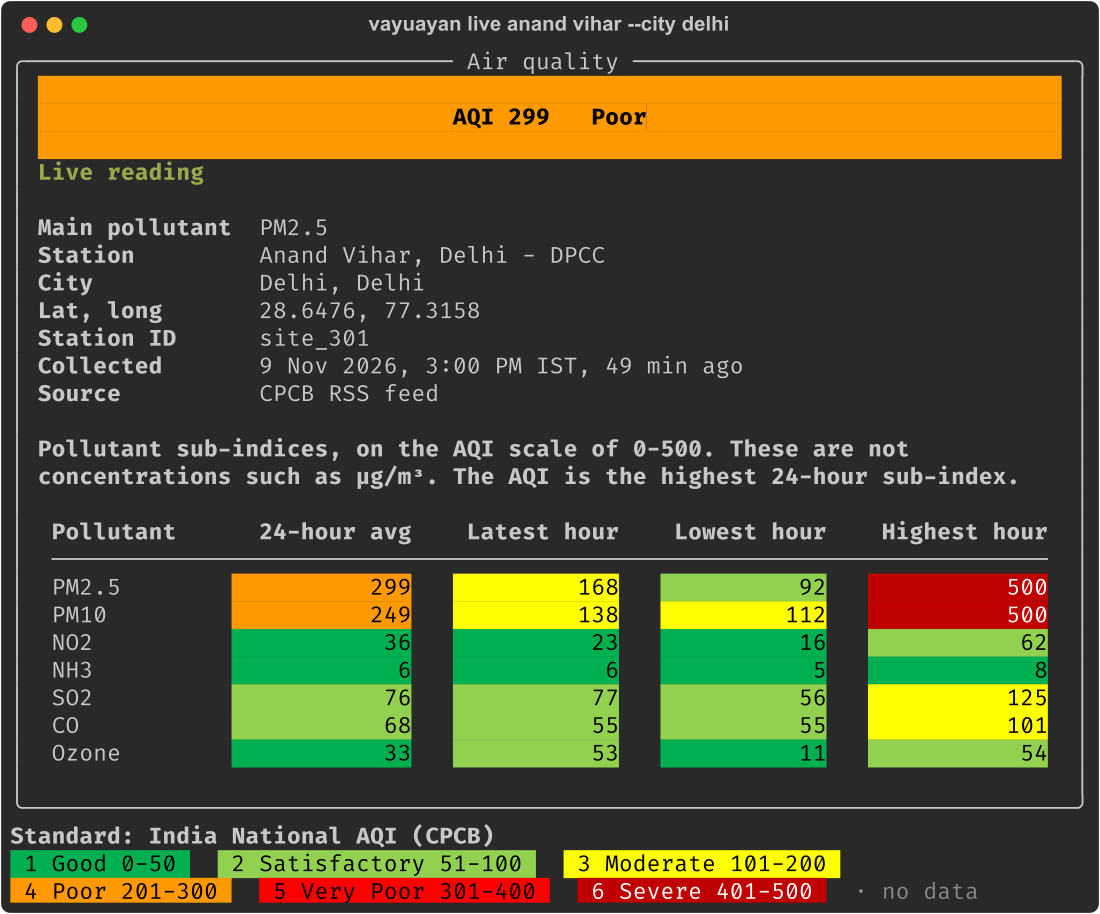
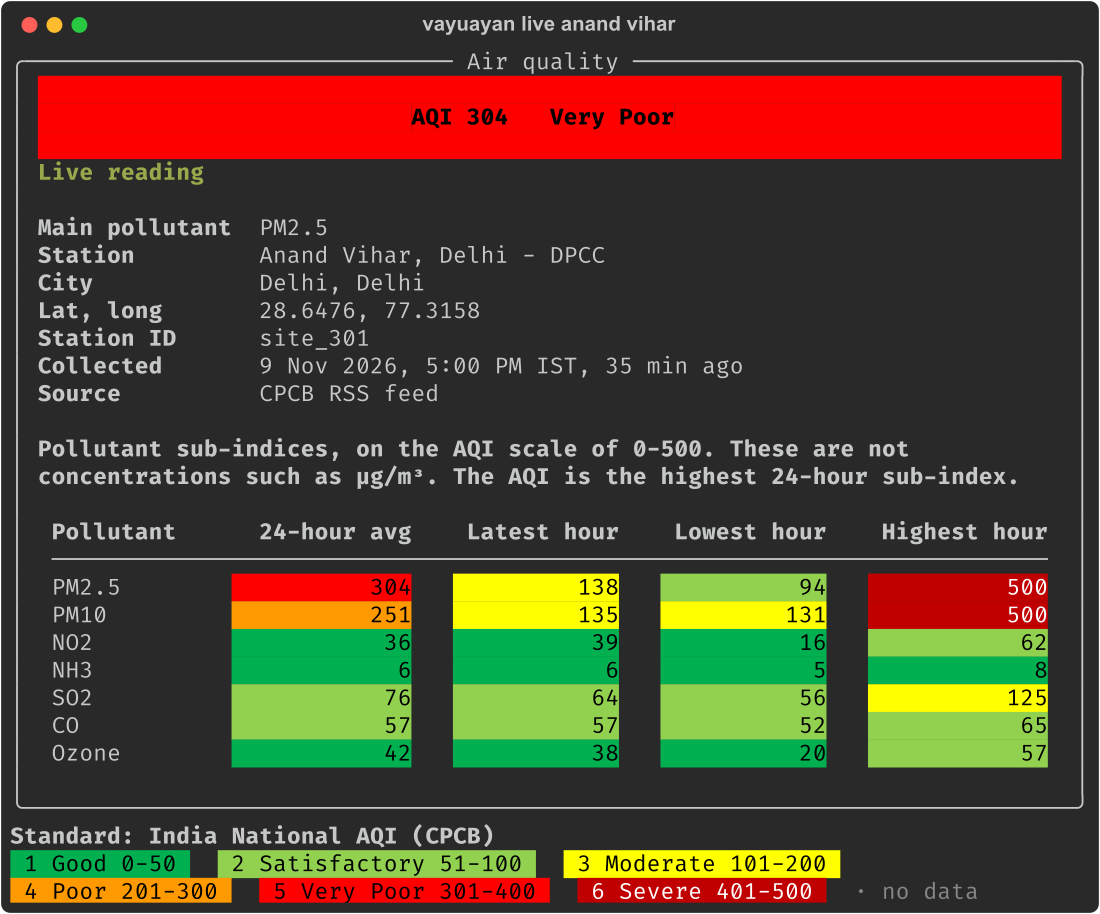
Update live example

diff --git a/python/docs/site_root/index.html b/python/docs/site_root/index.html
@@ -65,9 +65,9 @@
         <pre class="term-cmd">$ pip install vayuayan
 $ vayuayan live anand vihar</pre>
 <pre class="term-body">╭─────────────────────────────── Air quality ────────────────────────────────╮
-│ <span style="color: #000000; text-decoration-color: #000000; background-color: #ff9900; font-weight: bold">                                                                          </span> │
-│ <span style="color: #000000; text-decoration-color: #000000; background-color: #ff9900; font-weight: bold">                              AQI 299   Poor                              </span> │
-│ <span style="color: #000000; text-decoration-color: #000000; background-color: #ff9900; font-weight: bold">                                                                          </span> │
+│ <span style="color: #000000; text-decoration-color: #000000; background-color: #ff0000; font-weight: bold">                                                                          </span> │
+│ <span style="color: #000000; text-decoration-color: #000000; background-color: #ff0000; font-weight: bold">                           AQI 304   Very Poor                            </span> │
+│ <span style="color: #000000; text-decoration-color: #000000; background-color: #ff0000; font-weight: bold">                                                                          </span> │
 │ <span style="color: #008000; text-decoration-color: #008000; font-weight: bold">Live reading</span>                                                               │
 │                                                                            │
 │ <span style="font-weight: bold">Main pollutant  </span>PM2.5                                                      │
@@ -75,7 +75,7 @@ $ vayuayan live anand vihar</pre>
 │ <span style="font-weight: bold">City            </span>Delhi, Delhi                                               │
 │ <span style="font-weight: bold">Lat, long       </span>28.6476, 77.3158                                           │
 │ <span style="font-weight: bold">Station ID      </span>site_301                                                   │
-│ <span style="font-weight: bold">Collected       </span>9 Nov 2026, 3:00 PM IST, 49 min ago                        │
+│ <span style="font-weight: bold">Collected       </span>9 Nov 2026, 5:00 PM IST, 35 min ago                        │
 │ <span style="font-weight: bold">Source          </span>CPCB RSS feed                                              │
 │                                                                            │
 │ <span style="font-weight: bold">Pollutant sub-indices, on the AQI scale of 0-500. These are not </span>           │
@@ -83,13 +83,13 @@ $ vayuayan live anand vihar</pre>
 │                                                                            │
 │  <span style="font-weight: bold">Pollutant  </span> <span style="font-weight: bold">   24-hour avg </span> <span style="font-weight: bold">  Latest hour </span> <span style="font-weight: bold">  Lowest hour </span> <span style="font-weight: bold">  Highest hour</span>  │
 │  ────────────────────────────────────────────────────────────────────────  │
-│  PM2.5        <span style="color: #000000; text-decoration-color: #000000; background-color: #ff9900">          299</span>   <span style="color: #000000; text-decoration-color: #000000; background-color: #ffff00">         168</span>   <span style="color: #000000; text-decoration-color: #000000; background-color: #92d050">          92</span>   <span style="color: #ffffff; text-decoration-color: #ffffff; background-color: #c00000">          500</span>  │
-│  PM10         <span style="color: #000000; text-decoration-color: #000000; background-color: #ff9900">          249</span>   <span style="color: #000000; text-decoration-color: #000000; background-color: #ffff00">         138</span>   <span style="color: #000000; text-decoration-color: #000000; background-color: #ffff00">         112</span>   <span style="color: #ffffff; text-decoration-color: #ffffff; background-color: #c00000">          500</span>  │
-│  NO2          <span style="color: #000000; text-decoration-color: #000000; background-color: #00b050">           36</span>   <span style="color: #000000; text-decoration-color: #000000; background-color: #00b050">          23</span>   <span style="color: #000000; text-decoration-color: #000000; background-color: #00b050">          16</span>   <span style="color: #000000; text-decoration-color: #000000; background-color: #92d050">           62</span>  │
+│  PM2.5        <span style="color: #000000; text-decoration-color: #000000; background-color: #ff0000">          304</span>   <span style="color: #000000; text-decoration-color: #000000; background-color: #ffff00">         138</span>   <span style="color: #000000; text-decoration-color: #000000; background-color: #92d050">          94</span>   <span style="color: #ffffff; text-decoration-color: #ffffff; background-color: #c00000">          500</span>  │
+│  PM10         <span style="color: #000000; text-decoration-color: #000000; background-color: #ff9900">          251</span>   <span style="color: #000000; text-decoration-color: #000000; background-color: #ffff00">         135</span>   <span style="color: #000000; text-decoration-color: #000000; background-color: #ffff00">         131</span>   <span style="color: #ffffff; text-decoration-color: #ffffff; background-color: #c00000">          500</span>  │
+│  NO2          <span style="color: #000000; text-decoration-color: #000000; background-color: #00b050">           36</span>   <span style="color: #000000; text-decoration-color: #000000; background-color: #00b050">          39</span>   <span style="color: #000000; text-decoration-color: #000000; background-color: #00b050">          16</span>   <span style="color: #000000; text-decoration-color: #000000; background-color: #92d050">           62</span>  │
 │  NH3          <span style="color: #000000; text-decoration-color: #000000; background-color: #00b050">            6</span>   <span style="color: #000000; text-decoration-color: #000000; background-color: #00b050">           6</span>   <span style="color: #000000; text-decoration-color: #000000; background-color: #00b050">           5</span>   <span style="color: #000000; text-decoration-color: #000000; background-color: #00b050">            8</span>  │
-│  SO2          <span style="color: #000000; text-decoration-color: #000000; background-color: #92d050">           76</span>   <span style="color: #000000; text-decoration-color: #000000; background-color: #92d050">          77</span>   <span style="color: #000000; text-decoration-color: #000000; background-color: #92d050">          56</span>   <span style="color: #000000; text-decoration-color: #000000; background-color: #ffff00">          125</span>  │
-│  CO           <span style="color: #000000; text-decoration-color: #000000; background-color: #92d050">           68</span>   <span style="color: #000000; text-decoration-color: #000000; background-color: #92d050">          55</span>   <span style="color: #000000; text-decoration-color: #000000; background-color: #92d050">          55</span>   <span style="color: #000000; text-decoration-color: #000000; background-color: #ffff00">          101</span>  │
-│  Ozone        <span style="color: #000000; text-decoration-color: #000000; background-color: #00b050">           33</span>   <span style="color: #000000; text-decoration-color: #000000; background-color: #92d050">          53</span>   <span style="color: #000000; text-decoration-color: #000000; background-color: #00b050">          11</span>   <span style="color: #000000; text-decoration-color: #000000; background-color: #92d050">           54</span>  │
+│  SO2          <span style="color: #000000; text-decoration-color: #000000; background-color: #92d050">           76</span>   <span style="color: #000000; text-decoration-color: #000000; background-color: #92d050">          64</span>   <span style="color: #000000; text-decoration-color: #000000; background-color: #92d050">          56</span>   <span style="color: #000000; text-decoration-color: #000000; background-color: #ffff00">          125</span>  │
+│  CO           <span style="color: #000000; text-decoration-color: #000000; background-color: #92d050">           57</span>   <span style="color: #000000; text-decoration-color: #000000; background-color: #92d050">          57</span>   <span style="color: #000000; text-decoration-color: #000000; background-color: #92d050">          52</span>   <span style="color: #000000; text-decoration-color: #000000; background-color: #92d050">           65</span>  │
+│  Ozone        <span style="color: #000000; text-decoration-color: #000000; background-color: #00b050">           42</span>   <span style="color: #000000; text-decoration-color: #000000; background-color: #00b050">          38</span>   <span style="color: #000000; text-decoration-color: #000000; background-color: #00b050">          20</span>   <span style="color: #000000; text-decoration-color: #000000; background-color: #92d050">           57</span>  │
 │                                                                            │
 ╰────────────────────────────────────────────────────────────────────────────╯
 <span style="font-weight: bold">Standard: India National AQI (CPCB)</span>

diff --git a/python/tests/test_cli.py b/python/tests/test_cli.py
@@ -112,7 +112,7 @@ def test_live_with_only_a_city_filter(run):
 
 def test_filters_narrow_the_catalogue(run):
     # site_7 is in the catalogue but not the feed, so it reads as offline
-    assert run("live", "anand", "vihar", "--state", "UP") == 5
+    assert run("live", "vihar", "--state", "UP") == 5
     assert "site_7" in run.text
 
 
@@ -293,8 +293,8 @@ def test_old_commands_are_gone(run, command):
         (["history", "atlantis", "2025"], 3),
         (["find", "atlantis"], 3),
         (["stations", "--city", "Atlantis"], 3),
-        (["live", "anand", "vihar"], 4),
-        (["history", "anand", "vihar", "2025"], 4),
+        (["live", "vihar"], 4),
+        (["history", "vihar", "2025"], 4),
         (["live", "colaba"], 5),
         (["nonsense"], 2),
         (["live", "--nope"], 2),
@@ -380,7 +380,7 @@ def test_json_flag_works_before_the_command(run):
 
 
 def test_json_ambiguous_schema(run):
-    assert run("live", "anand", "vihar", "--json") == 4
+    assert run("live", "vihar", "--json") == 4
 
     document = run.document()
     assert document["status"] == "ambiguous"
@@ -417,14 +417,14 @@ def test_json_never_prompts_in_a_terminal(run, monkeypatch):
     run.terminal()
     answers(monkeypatch)
 
-    assert run("live", "anand", "vihar", "--json") == 4
+    assert run("live", "vihar", "--json") == 4
 
 
 def test_no_input_never_prompts_in_a_terminal(run, monkeypatch):
     run.terminal()
     answers(monkeypatch)
 
-    assert run("live", "anand", "vihar", "--no-input") == 4
+    assert run("live", "vihar", "--no-input") == 4
 
 
 def test_ambiguous_in_a_terminal_asks_and_continues(run, monkeypatch):
@@ -432,7 +432,7 @@ def test_ambiguous_in_a_terminal_asks_and_continues(run, monkeypatch):
     answers(monkeypatch, 1)
 
     assert run("find", "anand", "vihar") == 0
-    assert run("live", "anand", "vihar") in (0, 5)
+    assert run("live", "vihar") in (0, 5)
     assert "Anand Vihar, Delhi" in run.problem
 
 
@@ -441,7 +441,7 @@ def test_ambiguous_choice_applies_to_the_command(run, monkeypatch):
     run.live = FakeLive()
     answers(monkeypatch, 2)
 
-    run("history", "anand", "vihar", "2025")
+    run("history", "vihar", "2025")
 
     assert run.historical.calls[-1][1][0] == "site_7"
 
@@ -464,7 +464,7 @@ def test_ctrl_c_at_a_prompt_stops_quietly(run, monkeypatch):
     run.terminal()
     answers(monkeypatch, KeyboardInterrupt())
 
-    assert run("live", "anand", "vihar") == 130
+    assert run("live", "vihar") == 130
 
 
 def test_ip_failure_asks_for_a_place_in_a_terminal(run, monkeypatch):
@@ -721,3 +721,12 @@ def test_an_end_in_the_future_stops_at_the_last_whole_hour():
     now = datetime(2026, 11, 9, 15, 45)
 
     assert cli_parser.end_time("2026-11-09", now) == datetime(2026, 11, 9, 15)
+
+
+def test_a_bare_station_name_needs_no_city(run):
+    assert run("live", "anand", "vihar", "--json", "--no-input") in (0, 5)
+
+    document = run.document()
+    assert document["reading"]["station"]["id"] == "site_8"
+    assert [m["id"] for m in document["also_matches"]] == ["site_7"]
+    assert "--city Hapur" in run.problem

diff --git a/python/vayuayan/cli.py b/python/vayuayan/cli.py
@@ -12,7 +12,7 @@ import re
 import sys
 import warnings
 from contextlib import contextmanager
-from dataclasses import dataclass
+from dataclasses import dataclass, replace
 from datetime import date
 from typing import Callable, Dict, Iterator, List, Optional, Sequence
 
@@ -89,13 +89,28 @@ def _lookup(
         place = commands.lookup_place(
             CPCBHistorical(), " ".join(words), args.city, args.state
         )
+    if place.others:
+        assert place.station is not None
+        ctx.err.print(
+            f"Using {place.station.name}. Also: "
+            + "; ".join(f"{s.name} (--city {s.city})" for s in place.others),
+            markup=False,
+        )
     return _settle(ctx, place)
+
+
+def _with_others(result: CommandResult, place: PlaceResult) -> CommandResult:
+    """The result, naming any same-named stations the place was chosen over."""
+    if not place.others:
+        return result
+    others = [s.to_dict() for s in place.others]
+    return replace(result, data={**result.data, "also_matches": others})
 
 
 def _live_for(ctx: _Context, place: PlaceResult, save: str) -> CommandResult:
     """The live reading of a resolved place."""
     with _busy(ctx, "Fetching the latest reading..."):
-        return commands.live_place(CPCBLive(), place, save=save)
+        return _with_others(commands.live_place(CPCBLive(), place, save=save), place)
 
 
 def _live(ctx: _Context, args: argparse.Namespace) -> CommandResult:
@@ -144,7 +159,8 @@ def _history(ctx: _Context, args: argparse.Namespace) -> CommandResult:
         report = _report_request(args, year)
         place = _lookup(ctx, args, words)
         with _busy(ctx, "Downloading the report...") as progress:
-            return commands.history_report(client, place, report, progress)
+            result = commands.history_report(client, place, report, progress)
+            return _with_others(result, place)
 
     request = HistoryRequest(
         year=year if year is not None else date.today().year - 1,
@@ -156,7 +172,7 @@ def _history(ctx: _Context, args: argparse.Namespace) -> CommandResult:
     )
     place = _settle(ctx, commands.place_for_request(_lookup(ctx, args, words), request))
     with _busy(ctx, "Downloading the daily AQI...") as progress:
-        return commands.history(client, place, request, progress)
+        return _with_others(commands.history(client, place, request, progress), place)
 
 
 def _find(ctx: _Context, args: argparse.Namespace) -> CommandResult:

diff --git a/python/vayuayan/cli_places.py b/python/vayuayan/cli_places.py
@@ -58,6 +58,7 @@ class PlaceResult:
         city: Set when status is city.
         matches: The candidates when status is ambiguous.
         reason: Why the candidates need a choice, if not because of the name.
+        others: Same-named stations passed over.
     """
 
     status: PlaceStatus
@@ -66,6 +67,7 @@ class PlaceResult:
     city: Optional[CityPlace] = None
     matches: Tuple[Match, ...] = ()
     reason: str = ""
+    others: Tuple[Station, ...] = ()
 
     def stations(self) -> Tuple[Station, ...]:
         """Every station this result covers."""
@@ -119,10 +121,24 @@ def _of_cities(query: str, cities: Sequence[CityPlace]) -> PlaceResult:
     return PlaceResult("city", query, city=cities[0])
 
 
+def _of_shared_site(
+    query: str, stations: Sequence[Station], cities: Sequence[CityPlace]
+) -> Optional[PlaceResult]:
+    """The station in the largest city, if several share a site name without a tie."""
+    if len(stations) < 2:
+        return None
+    size = {s: len(c.stations) for c in cities for s in c.stations}
+    best, *others = sorted(stations, key=size.__getitem__, reverse=True)
+    if size[best] == size[others[0]]:
+        return None
+    return PlaceResult("station", query, station=best, others=tuple(others))
+
+
 def resolve_place(query: str, catalogue: Sequence[Station]) -> PlaceResult:
     """Decide what a place name means.
 
-    An exact station ID or name wins, then an exact city name. After that the
+    An exact station ID or name wins, then an exact city name, then a site
+    name shared by several cities, taken from the largest. After that the
     words of the query must start words of a station's name and city, and
     last of all the query may appear anywhere in them.
 
@@ -145,6 +161,11 @@ def resolve_place(query: str, catalogue: Sequence[Station]) -> PlaceResult:
     exact_cities = [c for c in cities if _normalise(c.city) == wanted]
     if exact_cities:
         return _of_cities(query, exact_cities)
+
+    site = [s for s in catalogue if _normalise(s.name.split(",")[0]) == wanted]
+    shared = _of_shared_site(query, site, cities)
+    if shared is not None:
+        return shared
 
     matchers: Tuple[Callable[[str, str], bool], ...] = (_word_match, _part_match)
     for matches in matchers:

diff --git a/python/tests/test_cli_places.py b/python/tests/test_cli_places.py
@@ -69,7 +69,7 @@ def test_city_with_one_station_is_that_station(stations):
 
 
 def test_several_stations_are_ambiguous(stations):
-    place = resolve_place("anand vihar", stations)
+    place = resolve_place("vihar", stations)
 
     assert place.status == "ambiguous"
     assert [m.id for m in place.matches] == ["site_8", "site_7"]
@@ -156,3 +156,36 @@ def test_catalogue_of_an_empty_table_is_empty():
 
 def test_catalogue_turns_missing_coordinates_into_none(stations):
     assert [s for s in stations if s.id == "site_6"][0].latitude is None
+
+
+def test_a_shared_site_name_prefers_the_largest_city(stations):
+    place = resolve_place("anand vihar", stations)
+
+    assert place.status == "station"
+    assert place.station.city == "Delhi"
+    assert [s.city for s in place.others] == ["Hapur"]
+
+
+def test_equal_cities_stay_ambiguous():
+    twins = [
+        Station("a", "Civil Lines, Agra - X", "Agra", "UP"),
+        Station("b", "Civil Lines, Pune - X", "Pune", "MH"),
+    ]
+
+    assert resolve_place("civil lines", twins).status == "ambiguous"
+
+
+def test_a_longer_site_name_does_not_undo_the_choice():
+    named = [
+        Station("a", "Civil Lines, Agra - X", "Agra", "UP"),
+        Station("b", "Civil Lines, Pune - X", "Pune", "MH"),
+        Station("c", "Shivaji Nagar, Pune - X", "Pune", "MH"),
+        Station("d", "Civil Lines Extension, Agra - X", "Agra", "UP"),
+        Station("e", "Kothrud, Pune - X", "Pune", "MH"),
+    ]
+
+    assert resolve_place("civil lines", named).station.id == "b"
+
+
+def test_a_partial_name_stays_ambiguous(stations):
+    assert resolve_place("vihar", stations).status == "ambiguous"

diff --git a/python/tests/test_commands.py b/python/tests/test_commands.py
@@ -231,7 +231,7 @@ def test_live_city_with_no_readings_is_no_data():
 
 def test_live_not_found_and_ambiguous():
     missing = commands.live_place(FakeLive(), _place("atlantis"), NOW)
-    several = commands.live_place(FakeLive(), _place("anand vihar"), NOW)
+    several = commands.live_place(FakeLive(), _place("vihar"), NOW)
 
     assert (missing.status, missing.exit_code) == ("not_found", 3)
     assert (several.status, several.exit_code) == ("ambiguous", 4)

diff --git a/python/vayuayan/commands.py b/python/vayuayan/commands.py
@@ -64,7 +64,7 @@ def find_stations(place: PlaceResult, save: str = "") -> CommandResult:
         unresolved = unresolved_place("find", place)
         assert unresolved is not None
         return unresolved
-    rows = [s.to_dict() for s in place.stations()]
+    rows = [s.to_dict() for s in (*place.stations(), *place.others)]
     if save:
         write_rows(rows, save)
     data = {

diff --git a/python/tests/test_cli_render.py b/python/tests/test_cli_render.py
@@ -459,7 +459,7 @@ def test_problem_without_a_message_shows_its_status():
 
 
 def test_ambiguous_listing_when_nobody_can_choose():
-    out, err = _render(commands.live_place(FakeLive(), _place("anand vihar"), NOW))
+    out, err = _render(commands.live_place(FakeLive(), _place("vihar"), NOW))
     text = " ".join(text_of(err).split())
 
     assert text_of(out) == ""

diff --git a/python/docs/cli_reference.rst b/python/docs/cli_reference.rst
@@ -192,10 +192,13 @@ the command. ``status`` is ``ok``, ``ambiguous``, ``not_found``, ``no_data``,
 
 .. code-block:: json
 
-   {"status": "ambiguous", "command": "live", "message": "Several places match 'anand vihar'.",
-    "query": "anand vihar",
-    "matches": [{"kind": "station", "id": "site_301", "name": "Anand Vihar, Delhi - DPCC",
-                 "city": "Delhi", "state": "Delhi", "latitude": 28.6476, "longitude": 77.3158}]}
+   {"status": "ambiguous", "command": "live", "message": "Several places match 'bandra kurla'.",
+    "query": "bandra kurla",
+    "matches": [{"kind": "station", "id": "site_5392", "name": "Bandra Kurla Complex, Mumbai - IITM",
+                 "city": "Mumbai", "state": "Maharashtra", "latitude": 19.053536, "longitude": 72.84643}]}
+
+When a station name is shared by several cities, live and history use the
+city with the most stations and list the others in also_matches.
 
 For a station, ``live`` has ``reading``; for a city, ``readings``; each reading
 has its own ``status`` from the table above. A match has ``kind`` ``station``

diff --git a/python/docs/history.rst b/python/docs/history.rst
@@ -29,6 +29,8 @@ v0.3.0 (unreleased)
   with ``--json`` and ``--no-input``. See :doc:`cli_reference`.
 * ``--save`` writes CSV, JSON or Parquet by file extension, sorted ascending, and
   ``vayuayan live`` accepts it.
+* ``live`` and ``history`` take a station name shared by several cities: the
+  largest city wins and a note names the others.
 * ``CPCBClient.download_raw_data`` with ``site_id`` uses the token route.
 * New page :doc:`aqi_standards`.
 

diff --git a/python/docs/index.rst b/python/docs/index.rst
@@ -34,7 +34,7 @@ category colours. See :doc:`cli_reference`.
    vayuayan live anand vihar
 
 .. image:: assets/cli_live.png
-   :alt: Output of vayuayan live anand vihar: AQI 299, Poor, with pollutant sub-indices
+   :alt: Output of vayuayan live anand vihar: AQI 304, Very Poor, with pollutant sub-indices
 
 Overview
 --------
